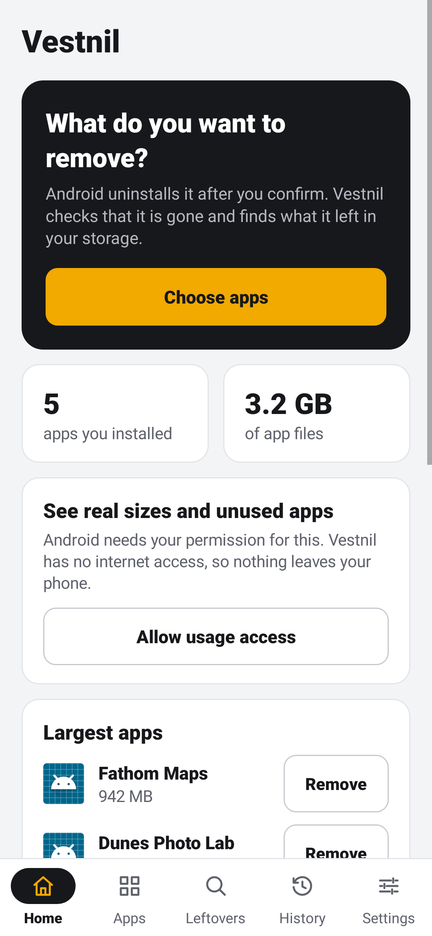
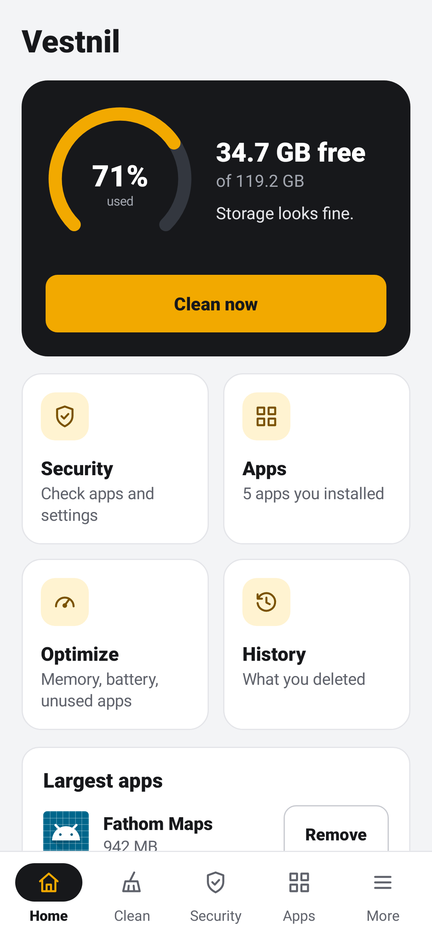
Vestnil 0.5.2 and Android 0.2.0

diff --git a/README.md b/README.md
@@ -4,13 +4,13 @@
 
 **Website:** https://vestnil.netlify.app &nbsp;|&nbsp; [Español](https://vestnil.netlify.app/es) &nbsp;|&nbsp; [Português](https://vestnil.netlify.app/pt-br) &nbsp;|&nbsp; [Français](https://vestnil.netlify.app/fr) &nbsp;|&nbsp; [Deutsch](https://vestnil.netlify.app/de) &nbsp;|&nbsp; [Bahasa Indonesia](https://vestnil.netlify.app/id) &nbsp;|&nbsp; [हिन्दी](https://vestnil.netlify.app/hi)
 
-## Download the latest version (0.5.1)
+## Download the latest version (0.5.2)
 
 | For | Download |
 |---|---|
 | **Most people** | [**VestnilSetup.exe**](https://github.com/SMRUTIRANJAN30/vestnil/releases/latest/download/VestnilSetup.exe) (installer, also updates older versions) |
 | **No installation** | [**Vestnil-portable.zip**](https://github.com/SMRUTIRANJAN30/vestnil/releases/latest/download/Vestnil-portable.zip) (unpack the whole folder, then open Vestnil.exe) |
-| **Android phone** (preview) | [**Vestnil-0.1.0.apk**](https://github.com/SMRUTIRANJAN30/vestnil/releases/download/android-v0.1.0/Vestnil-0.1.0.apk) ([about it](https://vestnil.netlify.app/phone)) |
+| **Android phone** (preview) | [**Vestnil-0.2.0.apk**](https://github.com/SMRUTIRANJAN30/vestnil/releases/download/android-v0.2.0/Vestnil-0.2.0.apk) ([about it](https://vestnil.netlify.app/phone)) |
 
 Needs 64-bit Windows 10 or 11, in any country. The app is in English. Please read the [terms](TERMS.txt) first.
 
@@ -22,7 +22,8 @@ From 0.4.0 on, every public version stays available.
 
 | Version | Status | Installer | Portable | Notes |
 |---|---|---|---|---|
-| **0.5.1** | Latest, recommended | [VestnilSetup-0.5.1.exe](https://github.com/SMRUTIRANJAN30/vestnil/releases/download/v0.5.1/VestnilSetup-0.5.1.exe) | [ZIP](https://github.com/SMRUTIRANJAN30/vestnil/releases/download/v0.5.1/Vestnil-0.5.1-portable.zip) | [What changed](https://github.com/SMRUTIRANJAN30/vestnil/releases/tag/v0.5.1) |
+| **0.5.2** | Latest, recommended | [VestnilSetup-0.5.2.exe](https://github.com/SMRUTIRANJAN30/vestnil/releases/download/v0.5.2/VestnilSetup-0.5.2.exe) | [ZIP](https://github.com/SMRUTIRANJAN30/vestnil/releases/download/v0.5.2/Vestnil-0.5.2-portable.zip) | [What changed](https://github.com/SMRUTIRANJAN30/vestnil/releases/tag/v0.5.2) |
+| 0.5.1 | Older | [VestnilSetup-0.5.1.exe](https://github.com/SMRUTIRANJAN30/vestnil/releases/download/v0.5.1/VestnilSetup-0.5.1.exe) | [ZIP](https://github.com/SMRUTIRANJAN30/vestnil/releases/download/v0.5.1/Vestnil-0.5.1-portable.zip) | [What changed](https://github.com/SMRUTIRANJAN30/vestnil/releases/tag/v0.5.1) |
 | 0.5.0 | Has a problem with Store apps, please update | [VestnilSetup-0.5.0.exe](https://github.com/SMRUTIRANJAN30/vestnil/releases/download/v0.5.0/VestnilSetup-0.5.0.exe) | [ZIP](https://github.com/SMRUTIRANJAN30/vestnil/releases/download/v0.5.0/Vestnil-0.5.0-portable.zip) | [What changed](https://github.com/SMRUTIRANJAN30/vestnil/releases/tag/v0.5.0) |
 | 0.4.0 | Older preview | [VestnilSetup-0.4.0.exe](https://github.com/SMRUTIRANJAN30/vestnil/releases/download/v0.4.0/VestnilSetup-0.4.0.exe) | - | [What changed](https://github.com/SMRUTIRANJAN30/vestnil/releases/tag/v0.4.0) |
 
@@ -83,9 +84,15 @@ Run `Get-FileHash .\VestnilSetup.exe` in PowerShell and compare it with `SHA256.
 
 ## Phone version (Android preview)
 
-**[Vestnil-0.1.0.apk](https://github.com/SMRUTIRANJAN30/vestnil/releases/download/android-v0.1.0/Vestnil-0.1.0.apk)** for Android 8 and newer, 52 KB. Removes several apps (Android asks you to confirm each one), checks that they are gone, and cleans folders they left in shared storage. It has no internet permission. [More about it](https://vestnil.netlify.app/phone)
+**[Vestnil-0.2.0.apk](https://github.com/SMRUTIRANJAN30/vestnil/releases/download/android-v0.2.0/Vestnil-0.2.0.apk)** for Android 8 and newer, 85 KB. [More about it](https://vestnil.netlify.app/phone)
 
-It is a preview: it passes 49 automatic app tests on the code of Android 8 to 15, and it has not been tested on a real phone yet. Download it only from here or from the website.
+- **Phone cleaner** with undo: temporary files, thumbnail caches, duplicates, large files, old downloads, folders of removed apps
+- **Security check** with the reason for every warning. It is not a virus scanner; it opens Google Play Protect for that
+- **Optimize:** memory, battery and unused apps, without a fake booster
+- **App remover:** one or several, checked with Android
+- **No internet permission**
+
+It is a preview: it passes 73 automatic app tests on the code of Android 8 to 15 and 100 safety checks. Download it only from here or from the website. Older: [0.1.0](https://github.com/SMRUTIRANJAN30/vestnil/releases/tag/android-v0.1.0).
 
 <img src="images/phone.png" width="260" alt="Vestnil for Android">
 
